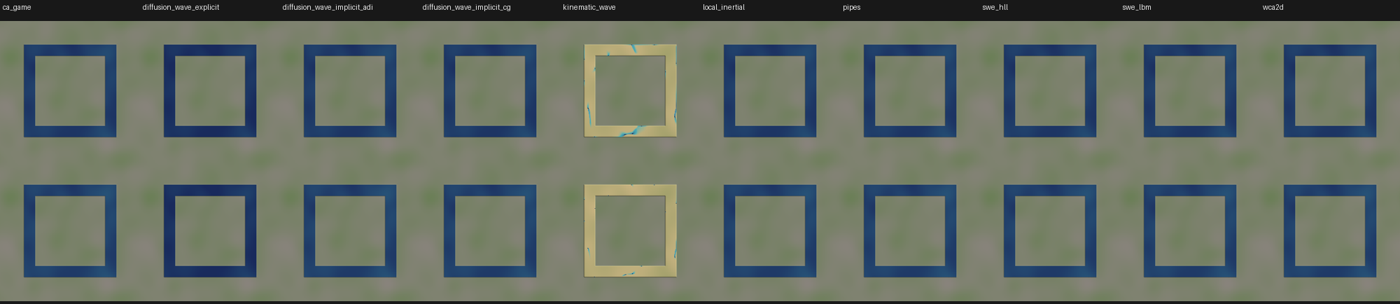
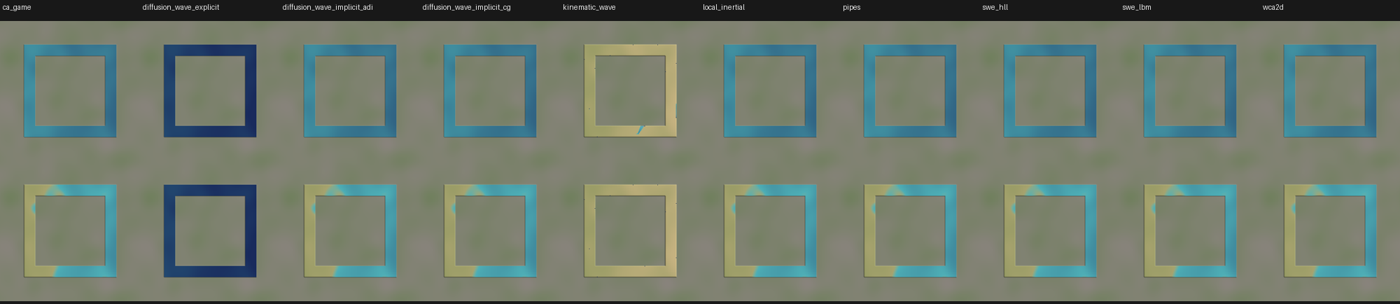
results: moat_evap rows re-run on the drying scene; ticket log

diff --git a/results/results.md b/results/results.md
@@ -16,31 +16,31 @@ Grid 400^2, median of 30 steps, single thread; numba kernels are plain loops of 
 
 | solver | ms/step numpy | dt s | numpy ms/tick | C# ms/tick guess | fits 0.5 ms/tick | worst vol err | lake drift m | settled | blow-ups | errors | capped |
 |---|---|---|---|---|---|---|---|---|---|---|---|
-| ca_game | 3.74 | 0.5 | 0.125 | 0.021-0.056 | yes | 1.8e-14 | 4.4e-16 | 1/9 | 0 | 0 | 0 |
-| diffusion_wave_explicit | 6.85 | 4.4e-05 | 2.53e+03 | 4.2e+02-1.1e+03 | no | 1.4e-15 | 4.4e-16 | 0/9 | 0 | 0 | 9 |
+| ca_game | 3.73 | 0.5 | 0.124 | 0.021-0.056 | yes | 3.1e-15 | 4.4e-16 | 1/9 | 0 | 0 | 0 |
+| diffusion_wave_explicit | 6.49 | 4.25e-05 | 2.76e+03 | 4.6e+02-1.2e+03 | no | 1.4e-15 | 4.4e-16 | 0/9 | 0 | 0 | 9 |
 | diffusion_wave_implicit_adi | 905 | 5 | 3.02 | 0.51-1.4 | no | 6.9e-16 | 5.9e-11 | 1/9 | 0 | 0 | 0 |
-| diffusion_wave_implicit_cg | 3.32e+03 | 5 | 11.1 | 1.9-5 | no | 7.3e-16 | 2.2e-16 | 1/9 | 0 | 0 | 7 |
-| kinematic_wave | 7.5 | 0.0712 | 1.75 | 0.29-0.79 | maybe | 2.6e-15 | 1.0e+04 | 1/9 | 5 | 0 | 0 |
-| local_inertial | 8.56 | 0.193 | 0.797 | 0.22-0.6 | maybe | 1.1e-15 | 8.9e-16 | 1/9 | 0 | 0 | 0 |
-| pipes | 9.27 | 0.152 | 1.02 | 0.039-0.1 | yes | 4.7e-14 | 3.6e-15 | 1/9 | 0 | 0 | 0 |
-| swe_hll | 23.5 | 0.145 | 2.7 | 0.45-1.2 | maybe | 1.7e-15 | 8.9e-16 | 1/9 | 0 | 0 | 0 |
-| swe_lbm | 80.4 | 0.0965 | 10.8 | 1.8-4.8 | no | 2.6e-14 | 4.4e-16 | 1/9 | 0 | 0 | 8 |
-| wca2d | 13.6 | 0.251 | 0.862 | 0.14-0.39 | yes | 4.8e-16 | 2.2e-16 | 1/9 | 0 | 0 | 0 |
+| diffusion_wave_implicit_cg | 2.77e+03 | 5 | 9.22 | 1.5-4.1 | no | 7.3e-16 | 2.2e-16 | 1/9 | 0 | 0 | 6 |
+| kinematic_wave | 7.28 | 0.0576 | 2.11 | 0.35-0.94 | maybe | 2.6e-15 | 1.0e+04 | 1/9 | 5 | 0 | 0 |
+| local_inertial | 8.24 | 0.192 | 0.731 | 0.21-0.55 | maybe | 2.6e-16 | 8.9e-16 | 1/9 | 0 | 0 | 0 |
+| pipes | 9.12 | 0.152 | 1 | 0.038-0.1 | yes | 6.7e-15 | 3.6e-15 | 1/9 | 0 | 0 | 0 |
+| swe_hll | 23.5 | 0.135 | 2.79 | 0.47-1.3 | maybe | 5.9e-16 | 8.9e-16 | 1/9 | 0 | 0 | 0 |
+| swe_lbm | 71.8 | 0.0965 | 10.8 | 1.8-4.8 | no | 4.5e-15 | 4.4e-16 | 1/9 | 0 | 0 | 7 |
+| wca2d | 12.8 | 0.251 | 0.862 | 0.14-0.39 | yes | 3.3e-15 | 2.2e-16 | 1/9 | 0 | 0 | 0 |
 
 ### Water solvers at 500 x 500 (median over water scenes)
 
 | solver | ms/step numpy | dt s | numpy ms/tick | C# ms/tick guess | fits 0.5 ms/tick | worst vol err | lake drift m | settled | blow-ups | errors | capped |
 |---|---|---|---|---|---|---|---|---|---|---|---|
-| ca_game | 13.5 | 0.5 | 0.45 | 0.076-0.2 | yes | 1.8e-14 | 4.4e-16 | 1/9 | 0 | 0 | 0 |
-| diffusion_wave_explicit | 17.4 | 5.48e-05 | 5.29e+03 | 8.9e+02-2.4e+03 | no | 2.9e-16 | 4.4e-16 | 0/9 | 0 | 0 | 9 |
+| ca_game | 13.5 | 0.5 | 0.45 | 0.076-0.2 | yes | 1.6e-15 | 4.4e-16 | 1/9 | 0 | 0 | 0 |
+| diffusion_wave_explicit | 17.4 | 4.25e-05 | 7.49e+03 | 1.3e+03-3.4e+03 | no | 1.8e-15 | 4.4e-16 | 0/9 | 0 | 0 | 9 |
 | diffusion_wave_implicit_adi | 2.48e+03 | 5 | 8.27 | 1.4-3.7 | no | 4.1e-16 | 3.0e-11 | 1/9 | 0 | 0 | 5 |
 | diffusion_wave_implicit_cg | 9.64e+03 | 5 | 32.1 | 5.4-14 | no | 2.6e-16 | 4.4e-16 | 0/9 | 0 | 0 | 9 |
-| kinematic_wave | 17.9 | 0.0845 | 3.29 | 0.55-1.5 | no | 9.9e-16 | 1.0e+04 | 1/9 | 5 | 0 | 0 |
-| local_inertial | 21.9 | 0.207 | 1.66 | 0.47-1.2 | maybe | 6.3e-16 | 8.9e-16 | 1/9 | 0 | 0 | 0 |
-| pipes | 26.8 | 0.152 | 2.94 | 0.11-0.3 | yes | 4.6e-14 | 2.7e-15 | 1/9 | 0 | 0 | 0 |
-| swe_hll | 58 | 0.155 | 7.16 | 1.2-3.2 | no | 6.3e-16 | 8.9e-16 | 1/9 | 0 | 0 | 6 |
-| swe_lbm | 178 | 0.12 | 24.7 | 4.2-11 | no | 6.1e-15 | 4.4e-16 | 0/9 | 0 | 0 | 9 |
-| wca2d | 40.2 | 0.254 | 2.72 | 0.46-1.2 | maybe | 4.7e-16 | 4.4e-16 | 1/9 | 0 | 0 | 1 |
+| kinematic_wave | 17.9 | 0.0777 | 3.7 | 0.62-1.7 | no | 9.9e-16 | 1.0e+04 | 1/9 | 6 | 0 | 0 |
+| local_inertial | 21.9 | 0.192 | 1.98 | 0.56-1.5 | no | 6.3e-16 | 8.9e-16 | 1/9 | 0 | 0 | 0 |
+| pipes | 26.8 | 0.152 | 2.94 | 0.11-0.3 | yes | 6.7e-15 | 2.7e-15 | 1/9 | 0 | 0 | 0 |
+| swe_hll | 58 | 0.135 | 7.16 | 1.2-3.2 | no | 1.2e-15 | 8.9e-16 | 1/9 | 0 | 0 | 5 |
+| swe_lbm | 165 | 0.118 | 24.7 | 4.2-11 | no | 1.6e-15 | 4.4e-16 | 0/9 | 0 | 0 | 9 |
+| wca2d | 40.2 | 0.254 | 2.72 | 0.46-1.2 | maybe | 1.8e-15 | 4.4e-16 | 1/9 | 0 | 0 | 1 |
 
 ### numpy ms/step by size (median over scenes; timing phase, sequential, one thread)
 
@@ -50,16 +50,16 @@ Grid 400^2, median of 30 steps, single thread; numba kernels are plain loops of 
 | stable_fluids | flow | 7.22 | 25.6 | 87.4 | 245 | 246 | 481 |
 | heat_adi | scalar | 0.253 | 0.709 | 1.35 | 2.34 | 2.56 | 3.87 |
 | heat_explicit | scalar | 0.0224 | 0.0775 | 0.241 | 0.521 | 0.685 | 1.23 |
-| ca_game | water | 0.125 | 0.394 | 1.84 | 3.74 | 8.79 | 13.5 |
-| diffusion_wave_explicit | water | 0.235 | 0.851 | 3.38 | 6.85 | 14.4 | 17.4 |
-| diffusion_wave_implicit_adi | water | 1.62 | 9.01 | 415 | 905 | 1.45e+03 | 2.48e+03 |
-| diffusion_wave_implicit_cg | water | 30.4 | 141 | 869 | 3.32e+03 | 6.93e+03 | 9.64e+03 |
-| kinematic_wave | water | 0.179 | 0.644 | 3.01 | 7.5 | 14.5 | 17.9 |
-| local_inertial | water | 0.305 | 1.04 | 4.6 | 8.56 | 19.2 | 21.9 |
-| pipes | water | 0.317 | 1.15 | 4.93 | 9.27 | 21.1 | 26.8 |
-| swe_hll | water | 0.543 | 2.25 | 10.2 | 23.5 | 41.7 | 58 |
-| swe_lbm | water | 1.94 | 6.79 | 33.1 | 80.4 | 124 | 178 |
-| wca2d | water | 0.354 | 1.61 | 7.15 | 13.6 | 26.9 | 40.2 |
+| ca_game | water | 0.125 | 0.382 | 1.84 | 3.73 | 8.79 | 13.5 |
+| diffusion_wave_explicit | water | 0.235 | 0.851 | 3.38 | 6.49 | 14.4 | 17.4 |
+| diffusion_wave_implicit_adi | water | 1.66 | 9.01 | 415 | 905 | 1.45e+03 | 2.48e+03 |
+| diffusion_wave_implicit_cg | water | 30.4 | 141 | 852 | 2.77e+03 | 6.53e+03 | 9.64e+03 |
+| kinematic_wave | water | 0.18 | 0.635 | 3.05 | 7.28 | 14.5 | 17.9 |
+| local_inertial | water | 0.307 | 1.1 | 4.6 | 8.24 | 19.2 | 21.9 |
+| pipes | water | 0.317 | 1.16 | 4.93 | 9.12 | 21.1 | 26.8 |
+| swe_hll | water | 0.546 | 2.25 | 9.76 | 23.5 | 40.9 | 58 |
+| swe_lbm | water | 1.95 | 6.85 | 32.2 | 71.8 | 116 | 165 |
+| wca2d | water | 0.368 | 1.86 | 7.15 | 12.8 | 26.9 | 40.2 |
 | linear_wave | wave | 0.0667 | 0.234 | 0.762 | 3.95 | 3.47 | 4.58 |
 
 ### Largest fixed dt that survives 20 s of the 128 dam break (water) / gaussian / ripples
@@ -138,16 +138,16 @@ Reference swe_hll (matches Stoker's analytic dam break to 0.1%, tests/test_water
 | lake_levelset | swe_hll | 9.1 | 0.15 | 802 | 120 |  | 3.5e-03 | 5.3e-17 | 0.0e+00 | no | no |  |
 | lake_levelset | swe_lbm | 34.1 | 0.0264 | 1446 | 18.9 |  | 1.2e-02 | 1.9e-16 | 0.0e+00 | no | yes |  |
 | lake_levelset | wca2d | 7.15 | 0.291 | 390 | 120 |  | 3.6e-03 | 8.3e-18 | 0.0e+00 | no | no |  |
-| moat_evap | ca_game | 1.87 | 0.5 | 240 | 120 |  | 2.0e-03 | 1.7e-14 | 0.0e+00 | no | no |  |
-| moat_evap | diffusion_wave_explicit | 3.97 | 5.6e-05 | 9761 | 0.547 |  | 2.0e-03 | 9.2e-16 | 0.0e+00 | no | yes |  |
-| moat_evap | diffusion_wave_implicit_adi | 16.9 | 5 | 24 | 120 |  | 2.0e-03 | 2.1e-16 | 0.0e+00 | no | no |  |
-| moat_evap | diffusion_wave_implicit_cg | 951 | 5 | 24 | 120 |  | 2.0e-03 | 1.0e-16 | 0.0e+00 | no | no |  |
-| moat_evap | kinematic_wave | 2.92 | 0.065 | 676 | 120 |  | 2.0e-01 | 1.4e-16 | 0.0e+00 | no | no |  |
-| moat_evap | local_inertial | 5.62 | 0.208 | 557 | 120 |  | 2.0e-03 | 2.9e-16 | 0.0e+00 | no | no |  |
-| moat_evap | pipes | 5.01 | 0.152 | 791 | 120 |  | 2.0e-03 | 5.0e-14 | 0.0e+00 | no | no |  |
-| moat_evap | swe_hll | 10.8 | 0.156 | 743 | 120 |  | 2.0e-03 | 5.5e-16 | 0.0e+00 | no | no |  |
-| moat_evap | swe_lbm | 37.8 | 0.139 | 867 | 120 |  | 2.0e-03 | 1.9e-14 | 0.0e+00 | no | no |  |
-| moat_evap | wca2d | 7.86 | 1 | 120 | 120 |  | 2.0e-03 | 5.2e-17 | 0.0e+00 | no | no |  |
+| moat_evap | ca_game | 2.75 | 0.5 | 240 | 120 |  | 1.5e-02 | 5.0e-16 | 0.0e+00 | no | no |  |
+| moat_evap | diffusion_wave_explicit | 4.04 | 3.39e-05 | 14244 | 0.484 |  | 1.5e-02 | 2.2e-15 | 0.0e+00 | no | yes |  |
+| moat_evap | diffusion_wave_implicit_adi | 12.5 | 5 | 24 | 120 |  | 1.5e-02 | 5.0e-16 | 0.0e+00 | no | no |  |
+| moat_evap | diffusion_wave_implicit_cg | 577 | 5 | 24 | 120 |  | 1.5e-02 | 5.0e-16 | 0.0e+00 | no | no |  |
+| moat_evap | kinematic_wave | 3.43 | 0.0467 | 824 | 120 |  | 1.5e-02 | 4.1e-16 | 0.0e+00 | no | no |  |
+| moat_evap | local_inertial | 6.84 | 0.181 | 514 | 120 |  | 1.5e-02 | 9.9e-16 | 0.0e+00 | no | no |  |
+| moat_evap | pipes | 6 | 0.152 | 791 | 120 |  | 1.5e-02 | 2.4e-14 | 0.0e+00 | no | no |  |
+| moat_evap | swe_hll | 9.76 | 0.135 | 685 | 120 |  | 1.5e-02 | 8.3e-16 | 0.0e+00 | no | no |  |
+| moat_evap | swe_lbm | 30.9 | 0.119 | 985 | 120 |  | 1.5e-02 | 1.1e-14 | 0.0e+00 | no | no |  |
+| moat_evap | wca2d | 8.23 | 1 | 120 | 120 |  | 1.5e-02 | 3.6e-15 | 0.0e+00 | no | no |  |
 | ocean_edge | ca_game | 1.84 | 0.5 | 240 | 120 |  | 2.0e-02 | 1.1e-16 | 0.0e+00 | no | no |  |
 | ocean_edge | diffusion_wave_explicit | 3.32 | 5.49e-06 | 10142 | 0.0557 |  | 1.8e-01 | 2.8e-17 | 0.0e+00 | no | yes |  |
 | ocean_edge | diffusion_wave_implicit_adi | 440 | 5 | 24 | 120 |  | 1.8e-01 | 2.7e-17 | 0.0e+00 | no | no |  |

diff --git a/tickets/MANDRAKEMODELS_BUILD_FLUID_BAKEOFF_ONE_INTERFACE_MANY_WATERS.md b/tickets/MANDRAKEMODELS_BUILD_FLUID_BAKEOFF_ONE_INTERFACE_MANY_WATERS.md
@@ -33,3 +33,9 @@ check: "{\"reason\":\"bakeoff results table and gallery not yet produced\",\"rev
 NEXT, in order: fix pit_dig; render rain_groundwater, swell, lake_at_rest, then other physics, one at a
   time (run1.sh in D:\ClaudeWork\mandrakemodels); look at moat + 3 more; optional dam_break n=250
   showcase; replace results/compare/*_64 with the new meta.json + stills; owner looks at index.html.
+- 2026-11-12 bench/detached (RIMMANDRAKE_SWEEP_WATER_SOLVERS_ON_BIG_MAPS): pit_dig fixed (canal bed falls from the river bed
+  to a smaller, nearer pit; 03ba39e) and moat_evap made to dry visibly (tilted floor, 15 mm/s; fad3ee1), each with a test
+  that fails on the old scene (7/7) and passes now; pit_dig and moat_evap bakeoff rows re-run (6840ddf and this commit);
+  rendered at 128 and looked at: all nine water scenes (index.html now lists them). Notes:
+  D:\ClaudeWork\rimmandrake\conductor\water_models_20261112\LOOKED.md. Still owed: other-physics pages, PhiFlow
+  adapter at 64, pylbm adapter, idle re-time, C# measurement.
